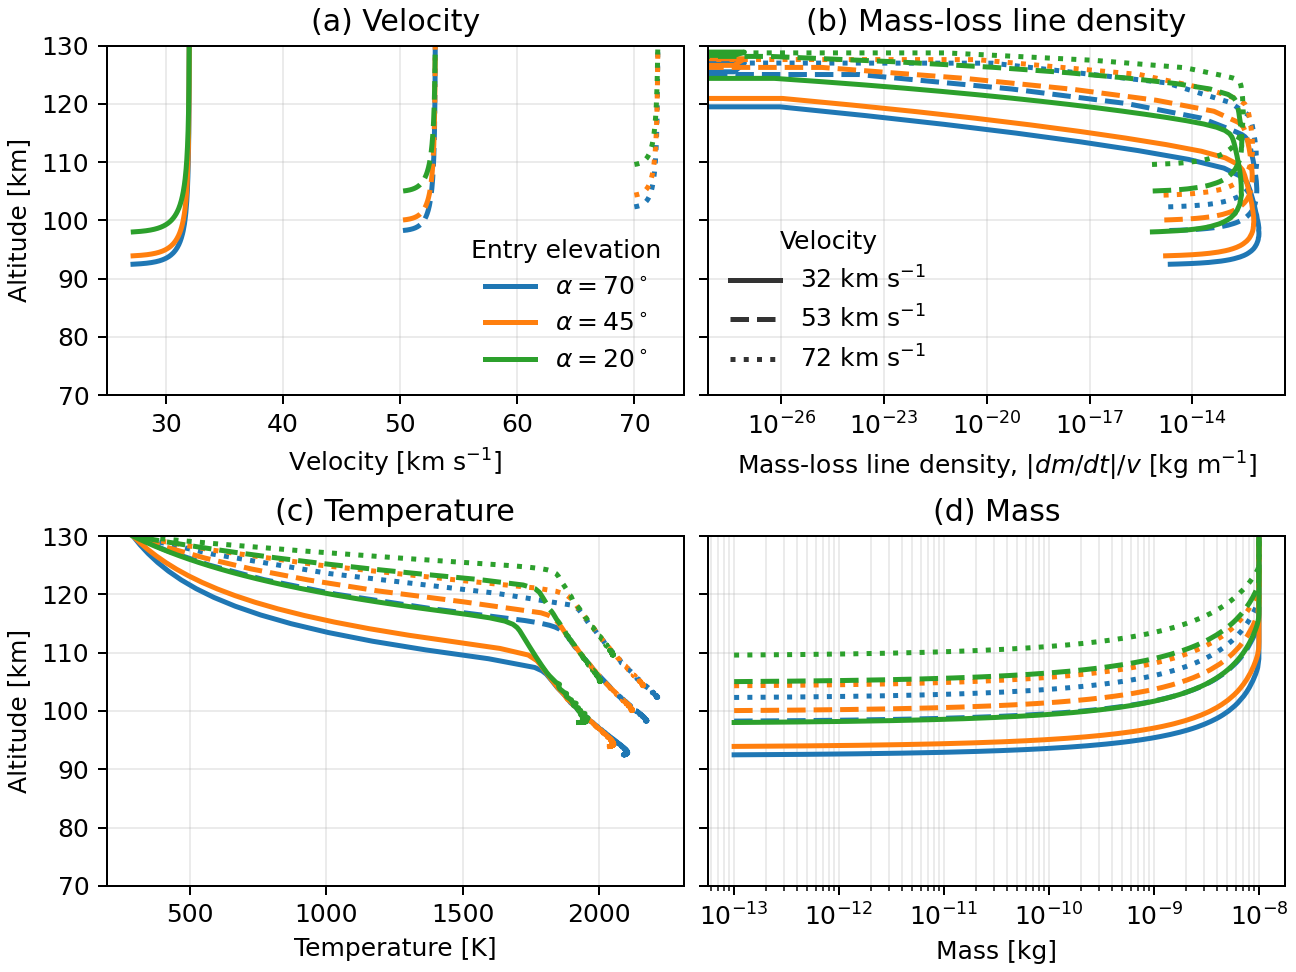
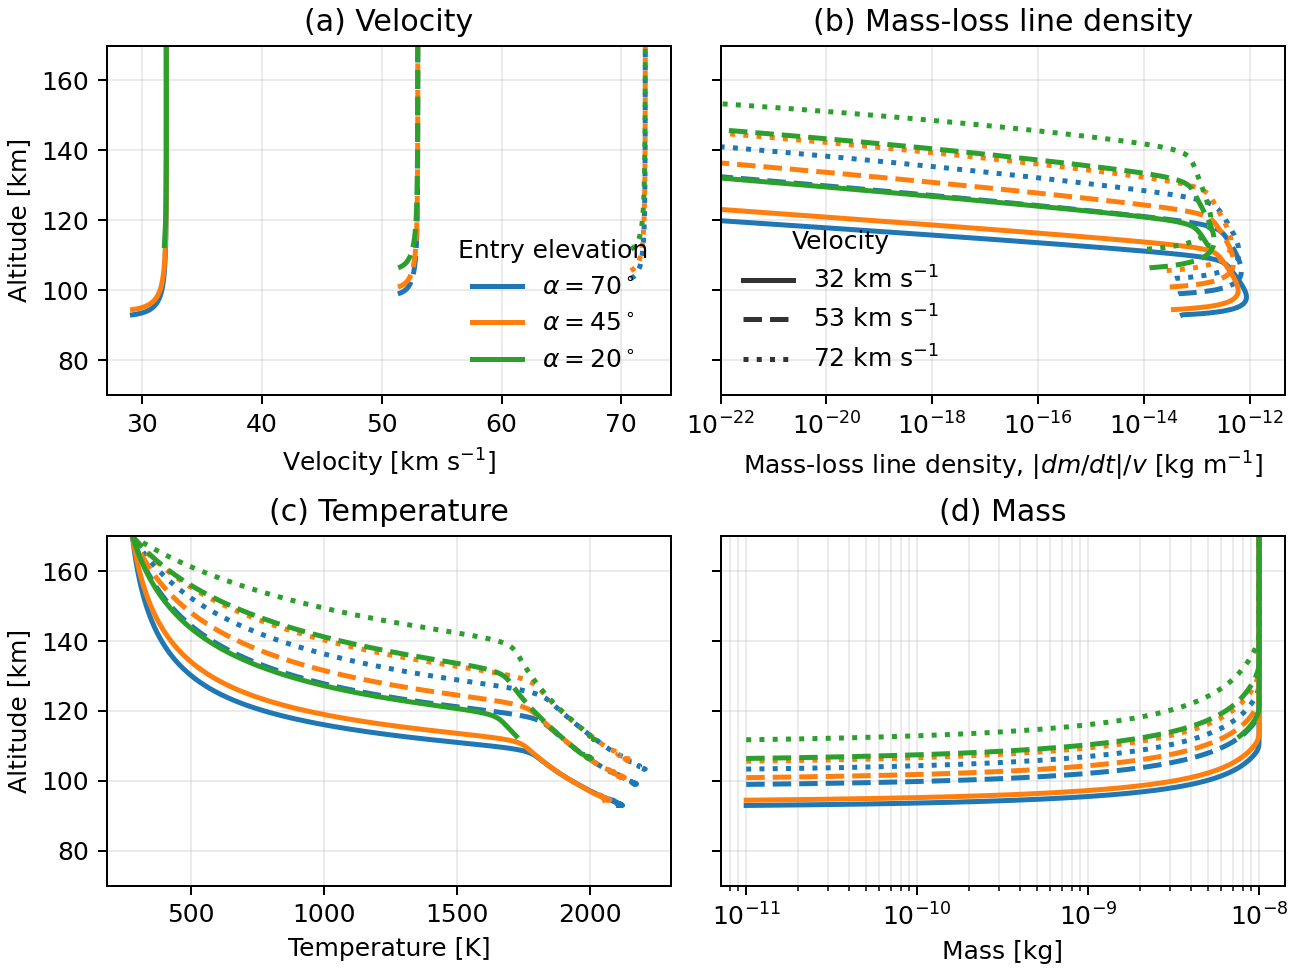
fixed the ablation sweep and updated the minimal example, also updated the figure (started from too low alt before)

diff --git a/docs/examples/ablation_sweep.py b/docs/examples/ablation_sweep.py
@@ -14,86 +14,93 @@ import warnings
 import matplotlib.pyplot as plt
 from matplotlib.lines import Line2D
 import numpy as np
+from tqdm import tqdm
 
+from spacecoords import frames
 import metablate
+import metablate.models.kero_szasz_2008 as ks
 
 
 TIME = np.datetime64("2018-06-28T12:45:33", "ns")
 LAT = 69.30
 LON = 16.04
 REFERENCE_ALTITUDE_M = 100e3
-START_ALTITUDE_M = 130e3
+START_ALTITUDE_M = 170e3
 AZIMUTH_DEG = 0.0
 MASS_KG = 1e-8
 VELOCITIES_KM_S = np.array([32.0, 53.0, 72.0])
 ENTRY_ELEVATION_ANGLES_DEG = np.array([70.0, 45.0, 20.0])
 
 
-def build_model():
-    return metablate.KeroSzasz2008(
-        atmosphere=metablate.atmosphere.AtmPymsis(),
-        config={
-            "options": {
-                "temperature0": 290,
-                "shape_factor": 1.21,
-                "emissivity": 0.9,
-                "sputtering": False,
-                "Gamma": 1.0,
-                "Lambda": 1.0,
-                "integral_resolution": 40,
-            },
-            "atmosphere": {
-                "version": 2.1,
-            },
-            "integrate": {
-                "minimum_mass_kg": MASS_KG * 1e-5,
-                "max_step_size_sec": 5e-2,
-                "max_time_sec": 5.0,
-                "method": "RK45",
-            },
-        },
+def run_case(model, velocity_km_s, entry_elevation_angle_deg):
+    reference_pos_ecef = frames.geodetic_wgs84_to_ecef(
+        LAT,
+        LON,
+        REFERENCE_ALTITUDE_M,
+        degrees=True,
     )
+    velocity_ecef = -frames.azel_to_ecef(
+        LAT,
+        LON,
+        az=AZIMUTH_DEG,
+        el=entry_elevation_angle_deg,
+        degrees=True,
+    )
+    velocity_ecef *= velocity_km_s * 1e3
 
-
-def run_case(model, material_data, velocity_km_s, entry_elevation_angle_deg):
     with warnings.catch_warnings():
         warnings.simplefilter("ignore", category=RuntimeWarning)
         result = model.run(
-            velocity0=velocity_km_s * 1e3,
-            mass0=MASS_KG,
-            altitude0=START_ALTITUDE_M,
-            # The model parameter is named zenith_ang, but this implementation
-            # passes it to the coordinate helper as elevation above the horizon.
-            zenith_ang=entry_elevation_angle_deg,
-            azimuth_ang=AZIMUTH_DEG,
-            material_data=material_data,
-            time=TIME,
-            lat=LAT,
-            lon=LON,
-            alt=REFERENCE_ALTITUDE_M,
+            parameters=ks.KeroSzaszInitialState(
+                epoch=TIME,
+                position_ecef=reference_pos_ecef,
+                velocity_ecef=velocity_ecef,
+                mass=MASS_KG,
+                drag_coefficient=1,
+                heat_transfer_coefficient=1,
+            ),
         )
 
-    altitude_km = result.altitude.values * 1e-3
+    llh = frames.ecef_to_geodetic_wgs84(
+        result.position_ecef[0, :],
+        result.position_ecef[1, :],
+        result.position_ecef[2, :],
+    )
+    altitude_km = llh[2, :] * 1e-3
     order = np.argsort(altitude_km)
-    mass_loss_rate = np.abs(np.gradient(result.mass.values, result.t, edge_order=1))
+    mass_loss_rate = np.abs(np.gradient(result.mass, result.t, edge_order=1))
     mass_loss_rate[~np.isfinite(mass_loss_rate)] = np.nan
-    mass_loss_line_density = mass_loss_rate / result.velocity.values
+    mass_loss_line_density = mass_loss_rate / result.velocity
     mass_loss_line_density[~np.isfinite(mass_loss_line_density)] = np.nan
 
     return {
         "altitude_km": altitude_km[order],
-        "velocity_km_s": result.velocity.values[order] * 1e-3,
+        "velocity_km_s": result.velocity[order] * 1e-3,
         "mass_loss_line_density_kg_m": mass_loss_line_density[order],
-        "temperature_k": result.temperature.values[order],
-        "mass_kg": result.mass.values[order],
+        "temperature_k": result.temperature[order],
+        "mass_kg": result.mass[order],
     }
 
 
 def make_figure():
-    model = build_model()
-    material_data = metablate.material.get("cometary")
+    model = ks.KeroSzasz2008(
+        options=ks.KeroSzaszOptions(
+            material=metablate.material.cometary,
+            sputtering=False,
+            minimum_mass=1e-11,
+            max_step_size=5e-3,
+            max_time=5.0,
+            integral_resolution=40,
+            effective_atmospheric_temperature=280,
+            start_altitude=START_ALTITUDE_M,
+        ),
+    )
     results = []
 
+    pbar = tqdm(
+        total=len(ENTRY_ELEVATION_ANGLES_DEG) * len(VELOCITIES_KM_S),
+        desc="Iterating ablation model",
+    )
     for entry_elevation_angle_deg in ENTRY_ELEVATION_ANGLES_DEG:
         for velocity_km_s in VELOCITIES_KM_S:
             results.append(
@@ -102,17 +109,17 @@ def make_figure():
                     "velocity_km_s": velocity_km_s,
                     "data": run_case(
                         model,
-                        material_data,
                         velocity_km_s,
                         entry_elevation_angle_deg,
                     ),
                 }
             )
+            pbar.update(1)
+    pbar.close()
 
     colors = plt.rcParams["axes.prop_cycle"].by_key()["color"]
     angle_colors = {
-        angle: colors[index % len(colors)]
-        for index, angle in enumerate(ENTRY_ELEVATION_ANGLES_DEG)
+        angle: colors[index % len(colors)] for index, angle in enumerate(ENTRY_ELEVATION_ANGLES_DEG)
     }
     velocity_linestyles = {32.0: "-", 53.0: "--", 72.0: ":"}
 
@@ -149,9 +156,10 @@ def make_figure():
             ax.set_xscale("log")
         ax.set_xlabel(xlabel)
         ax.set_title(title)
-        ax.set_ylim(70, 130)
+        ax.set_ylim(70, START_ALTITUDE_M * 1e-3)
         ax.grid(True, which="both", alpha=0.25)
 
+    axes[1].set_xlim(1e-22, None)  # Go above floating point limit of diff
     axes[0].set_ylabel("Altitude [km]")
     axes[2].set_ylabel("Altitude [km]")
 

diff --git a/docs/examples/getting_started.py b/docs/examples/getting_started.py
@@ -1,0 +1,28 @@
+import numpy as np
+import metablate.models.kero_szasz_2008 as ks
+from spacecoords import frames
+
+lat = 67.0
+lon = 20.0
+alt = 100e3
+reference_pos_ecef = frames.geodetic_wgs84_to_ecef(lat, lon, alt, degrees=True)
+velocity_dir_ecef = frames.azel_to_ecef(lat, lon, az=10, el=-45, degrees=True)
+
+model = ks.KeroSzasz2008(
+    options=ks.KeroSzaszOptions(
+        material=mat.cometary,
+        sputtering=False,
+        minimum_mass=1e-11,
+        max_step_size=1e-3,
+        start_altitude=150e3,
+    ),
+)
+
+result = model.run(
+    parameters=ks.KeroSzaszInitialState(
+        epoch=np.datetime64("2018-06-28T12:45:33"),
+        position_ecef=reference_pos_ecef,
+        velocity_ecef=velocity_dir_ecef * 60e3,
+        mass=1e-6,
+    ),
+)

diff --git a/README.md b/README.md
@@ -18,44 +18,36 @@ elevation angle and velocity.
 python docs/examples/ablation_sweep.py --output docs/assets/kero_figure1_example.png
 ```
 
-The core setup is:
+The example setup is:
 
 ```python
 import numpy as np
-import metablate
+import metablate.models.kero_szasz_2008 as ks
+from spacecoords import frames
 
-model = metablate.KeroSzasz2008(
-    atmosphere=metablate.atmosphere.AtmPymsis(),
-    config={
-        "options": {
-            "temperature0": 290,
-            "shape_factor": 1.21,
-            "emissivity": 0.9,
-            "sputtering": False,
-            "Gamma": 1.0,
-            "Lambda": 1.0,
-        },
-        "atmosphere": {"version": 2.1},
-        "integrate": {
-            "minimum_mass_kg": 1e-13,
-            "max_step_size_sec": 5e-2,
-            "max_time_sec": 5.0,
-            "method": "RK45",
-        },
-    },
+lat = 67.0
+lon = 20.0
+alt = 100e3
+reference_pos_ecef = frames.geodetic_wgs84_to_ecef(lat, lon, alt, degrees=True)
+velocity_dir_ecef = frames.azel_to_ecef(lat, lon, az=10, el=-45, degrees=True)
+
+model = ks.KeroSzasz2008(
+    options=ks.KeroSzaszOptions(
+        material=mat.cometary,
+        sputtering=False,
+        minimum_mass=1e-11,
+        max_step_size=1e-3,
+        start_altitude=150e3,
+    ),
 )
 
 result = model.run(
-    velocity0=53e3,
-    mass0=1e-8,
-    altitude0=130e3,
-    zenith_ang=45.0,
-    azimuth_ang=0.0,
-    material_data=metablate.material.get("cometary"),
-    time=np.datetime64("2018-06-28T12:45:33", "ns"),
-    lat=69.30,
-    lon=16.04,
-    alt=100e3,
+    parameters=ks.KeroSzaszInitialState(
+        epoch=np.datetime64("2018-06-28T12:45:33"),
+        position_ecef=reference_pos_ecef,
+        velocity_ecef=velocity_dir_ecef * 60e3,
+        mass=1e-6,
+    ),
 )
 ```
 